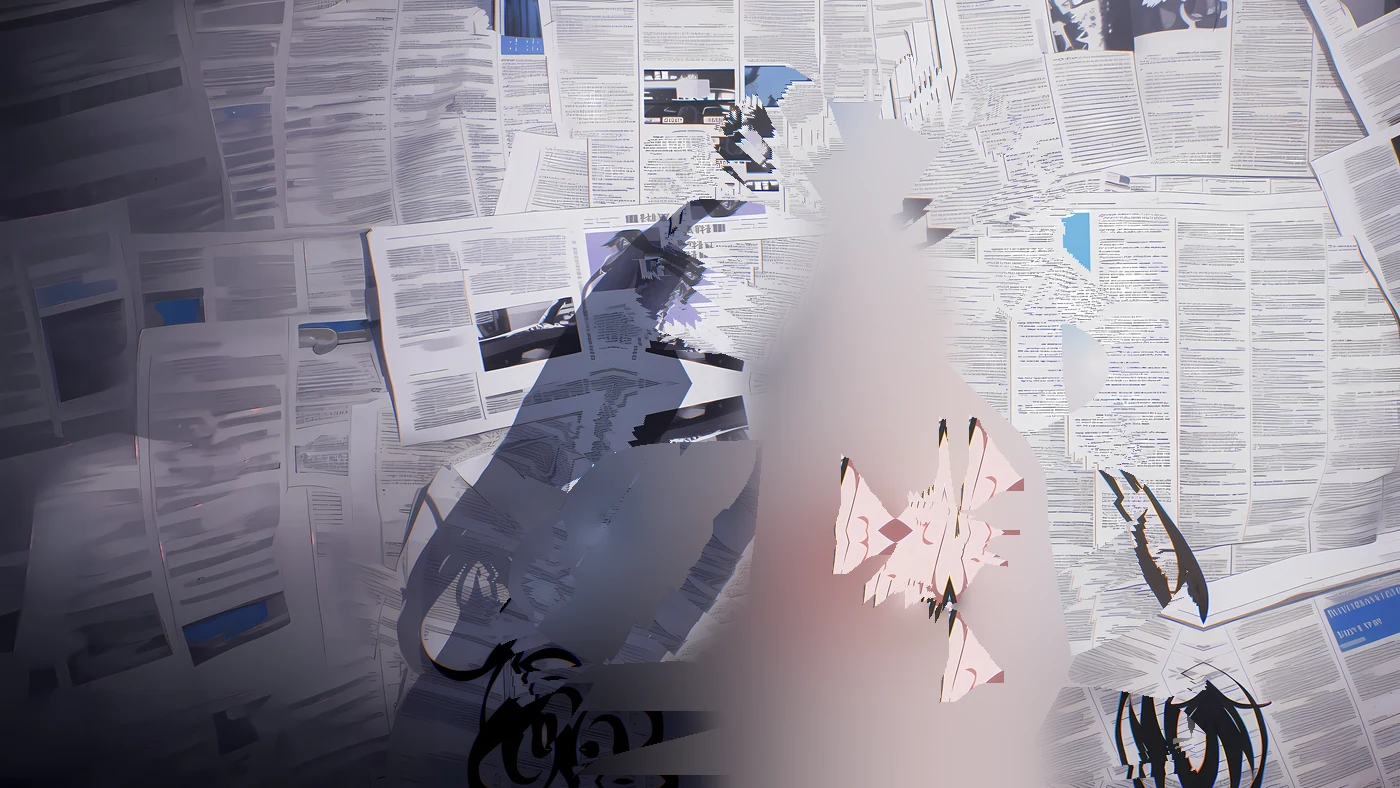
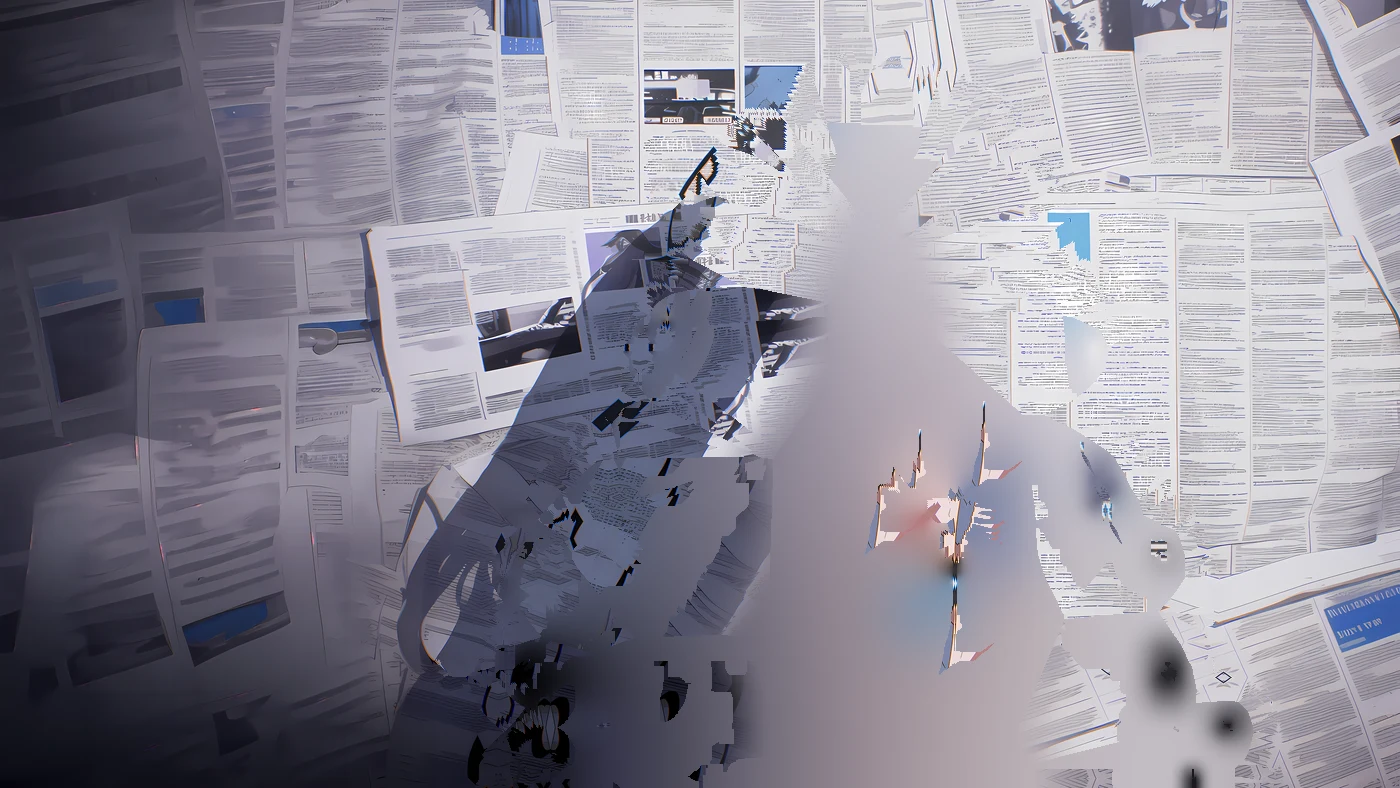
修首页示例卡（看板娘）一倾斜就出现的白描边：分层不再外扩前景，边缘精修改全分辨率
原因有两层：
- 示例卡是 09-22 用旧流水线切的（前景外扩约 6 像素），PR #4 的去白边改动之后一直没重切
- 就算用现在的流水线重切，还剩约 2 像素的前景外扩：膨胀吃进来的那圈报纸是不透明的，
  静止时正好盖在原来的位置上看不出来，一做视差就跟着头发走，成了贴着发缘的一道青白线

改动：
- foregroundGrow 0.0015 → 0：看板娘发缘那道线没了。背景层另有 fringe 外扩补洞，物体边缘不会留在背景里
- 引导滤波改在全分辨率上算（workingWidth 520 → 1400）、窗口减半（1.6% → 0.8% 图宽）：
  软边从二十来像素窄到一半，带子里的半透明背景色少了。代价：分层 +1 秒左右、峰值内存 +90MB（907 → 999MB）
- 用新流水线重切 public/samples/demo（原图是线上 437e4bed 那张）

8 张线上原图（黑发白墙、夜景、户外、花背景、米色背景、动漫白发、动漫+猫、动漫）左右倾斜逐张对比，
没有多出缺边、残影。已知没修的：前景挪开后露出的补洞区域仍有鬼影（issue #3 第 2 条的另一半），
这是补洞算法本身的问题，和白边无关。
分享图 og*.jpg 没有重出：本机字体和当初出图的机器不同，重出会改掉标题字体和标点间距

Changed region(s): [[0.3071, 0.0609, 0.9214, 1.0], [0.3993, 0.7005, 0.4607, 0.7614], [0.43, 0.7919, 0.4607, 0.8223]]

diff --git a/src/segmenter/extract.ts b/src/segmenter/extract.ts
@@ -59,12 +59,13 @@ export const DEFAULT_EXTRACT_OPTIONS: ExtractOptions = {
   snapRadius: 0.01,
   snapThreshold: 0.12,
   /*
-   * 以前是 0.004（1400 宽时约 6 像素）。膨胀吃进来的那圈背景是不透明的，去背景色也救不了，
-   * 白墙、天空前的主体因此都带一道亮边（issue #3 第 2 条的「白边」）。
-   * 背景层那边另有 fringe 在遮挡区外扩一圈再补，物体边缘不会留在背景里，所以这里只留 2 像素兜底。
-   * 8 张测试照片（人像、宠物、逆光）对比过：白边明显变窄，运动时没有多出残影
+   * 不膨胀。膨胀吃进来的那圈背景是不透明的，去背景色也救不了：静止时它正好盖在原来的背景上看不出来，
+   * 一做视差就跟着前景走，成了贴着轮廓的一道亮边（issue #3 第 2 条的「白边」）。
+   * 0.004（约 6 像素）→ 0.0015（约 2 像素）时白边窄了，但首页示例卡（报纸前的黑发）上仍然一眼可见；
+   * 去掉之后没有了。背景层那边另有 fringe 在遮挡区外扩一圈再补，物体边缘不会留在背景里。
+   * 8 张线上的原图（黑发白墙、夜景、户外、花背景、动漫、猫）左右倾斜对比过，没有多出残影或缺边
    */
-  foregroundGrow: 0.0015,
+  foregroundGrow: 0,
   fringe: 0.005,
   mirrorReach: 0.12,
   images: browserImages,

diff --git a/src/segmenter/refine.ts b/src/segmenter/refine.ts
@@ -44,9 +44,15 @@ export interface RefineOptions {
   confidenceHigh: number;
 }
 
+/*
+ * 全分辨率（和 extract 的 maxDimension 一样）、窗口 0.8% 图宽。
+ * 以前在 520 宽的缩小图上算、窗口 1.6%，放回 1400 宽时软边有二十来个像素宽，
+ * 带子里是半透明的背景色，视差时跟着前景走，是白边的另一半来源；现在窄了一半。
+ * 代价是分层多 1 秒左右、峰值内存多 90MB 上下（看板娘那张原图实测：8.0 → 9.3 秒，907 → 999MB）
+ */
 export const DEFAULT_REFINE_OPTIONS: RefineOptions = {
-  workingWidth: 520,
-  windowRadius: 0.016,
+  workingWidth: 1400,
+  windowRadius: 0.008,
   epsilon: 2e-3,
   bandRadius: 0.016,
   confidenceLow: 0.35,
